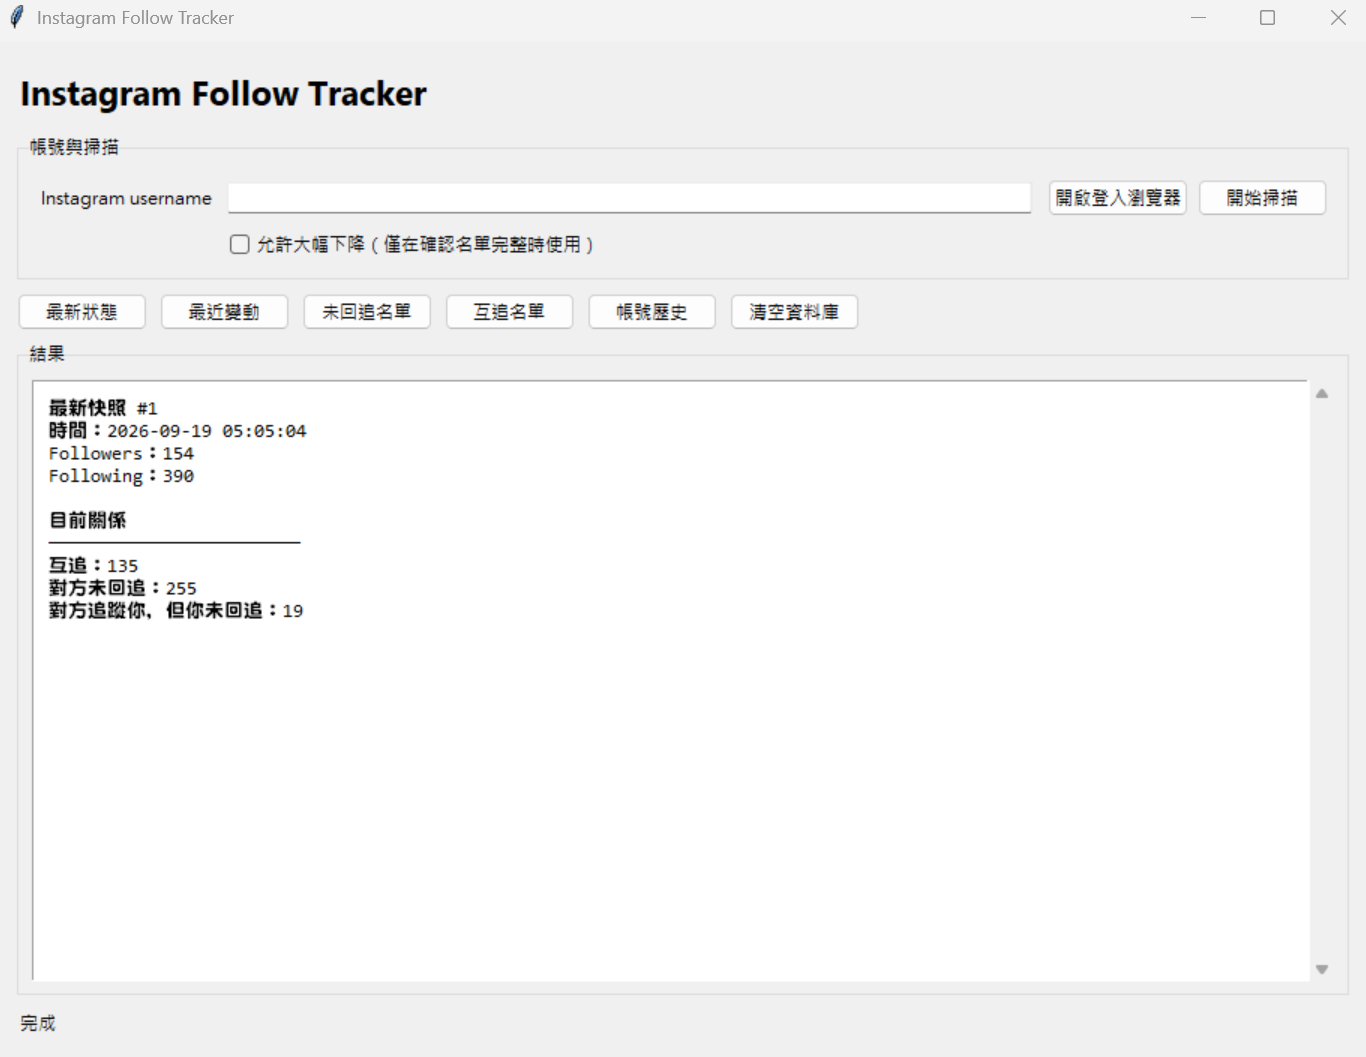
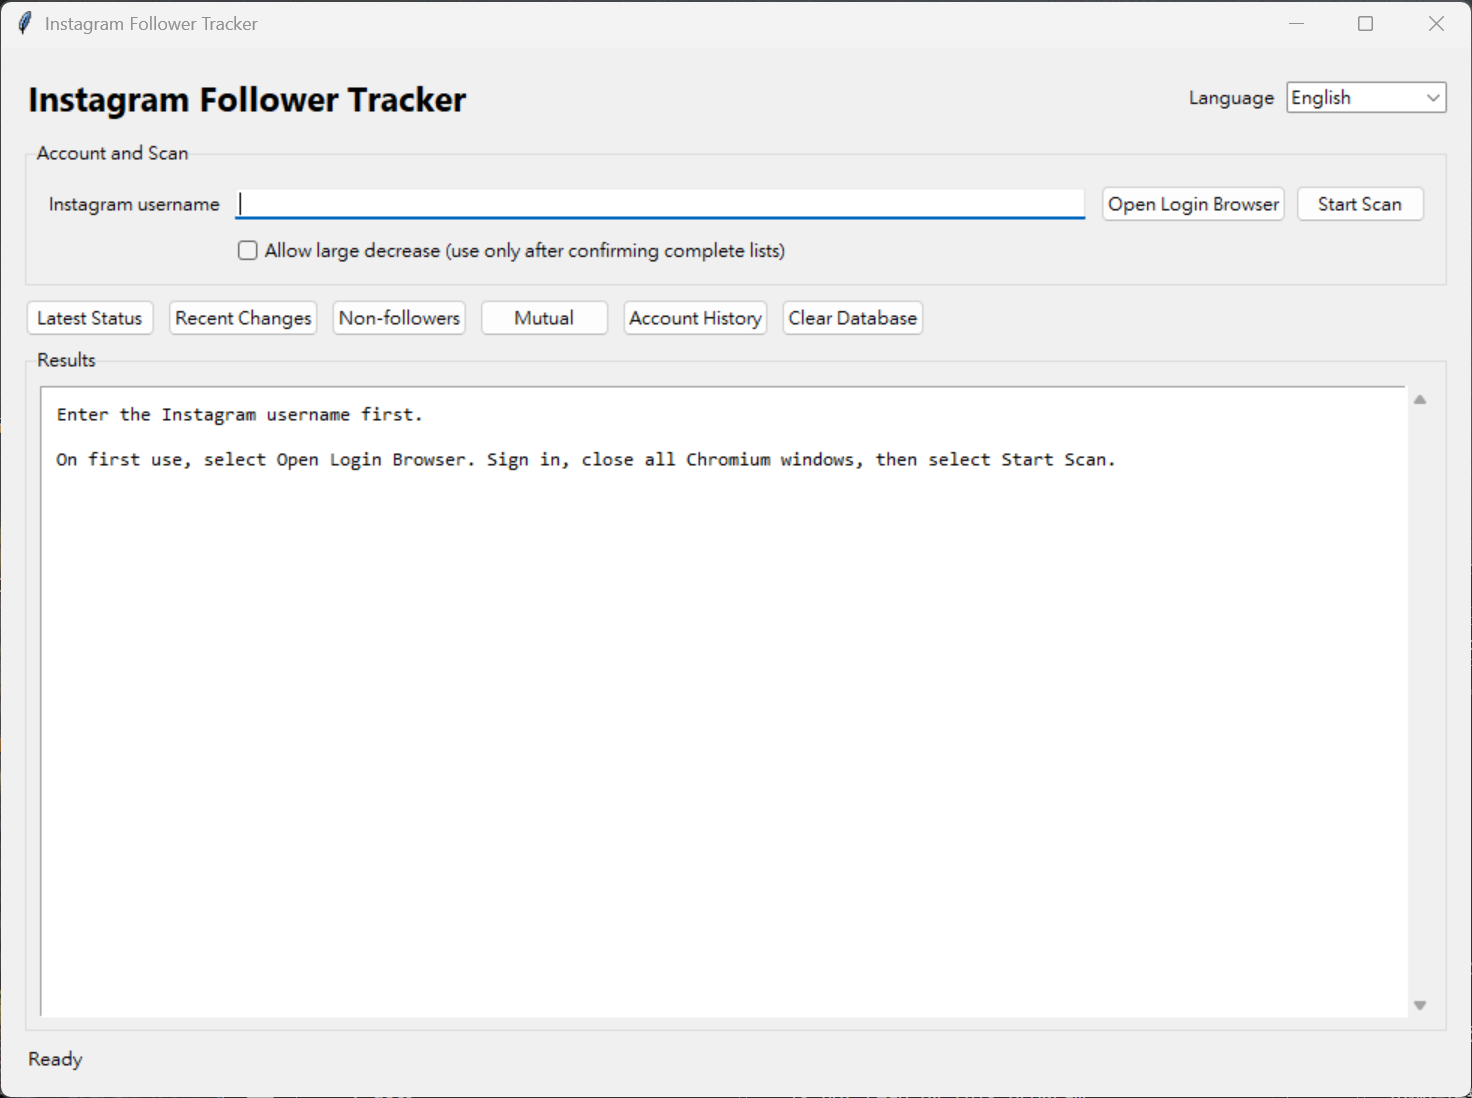
Correct Follower Tracker branding and preview

diff --git a/gui.py b/gui.py
@@ -1,4 +1,4 @@
-"""Tkinter desktop interface for Instagram Follow Tracker."""
+"""Tkinter desktop interface for Instagram Follower Tracker."""
 
 from __future__ import annotations
 
@@ -268,7 +268,7 @@ class TrackerGUI:
         return _pick(self.language, english, chinese)
 
     def _configure_window(self) -> None:
-        self.root.title("Instagram Follow Tracker")
+        self.root.title("Instagram Follower Tracker")
         self.root.geometry("980x700")
         self.root.minsize(800, 560)
         style = ttk.Style(self.root)
@@ -286,7 +286,7 @@ class TrackerGUI:
         header.columnconfigure(0, weight=1)
         ttk.Label(
             header,
-            text="Instagram Follow Tracker",
+            text="Instagram Follower Tracker",
             font=("Segoe UI", 17, "bold"),
         ).grid(row=0, column=0, sticky=tk.W)
         self.language_label = ttk.Label(header)

diff --git a/display.py b/display.py
@@ -28,7 +28,7 @@ def format_time(value: datetime | None) -> str:
 
 
 def print_header() -> None:
-    print(f"Instagram Follow Tracker\n{RULE}\n")
+    print(f"Instagram Follower Tracker\n{RULE}\n")
 
 
 def _print_name_group(title: str, names: frozenset[str], marker: str) -> None:
@@ -178,4 +178,3 @@ def print_validation_warning(issues: tuple[ValidationIssue, ...]) -> None:
         print(f"Current captured {label.lower()}: {issue.current_count}")
         print(f"Minimum accepted ratio: {issue.minimum_ratio:.0%}\n")
     print("Snapshot was NOT saved.")
-

diff --git a/app.py b/app.py
@@ -24,7 +24,7 @@ def main() -> int:
         root = tk.Tk()
         root.withdraw()
         messagebox.showerror(
-            "Instagram Follow Tracker",
+            "Instagram Follower Tracker",
             f"The application could not start:\n\n{exc}\n\n"
             "See logs/tracker.log for details.",
             parent=root,

diff --git a/main.py b/main.py
@@ -1,4 +1,4 @@
-"""Command-line entry point for Instagram Follow Tracker."""
+"""Command-line entry point for Instagram Follower Tracker."""
 
 from __future__ import annotations
 

diff --git a/README.md b/README.md
@@ -1,10 +1,10 @@
-# Instagram Follow Tracker
+# Instagram Follower Tracker
 
 A local desktop tool for recording changes in an Instagram account's Followers and Following lists.
 
 The application uses Playwright to control Chromium and stores each successful scan in SQLite. It does not use an unofficial Instagram API, save passwords, or run as a background service.
 
-![Instagram Follow Tracker desktop interface](docs/gui.png)
+![Instagram Follower Tracker desktop interface](docs/gui.png)
 
 ## Features
 
